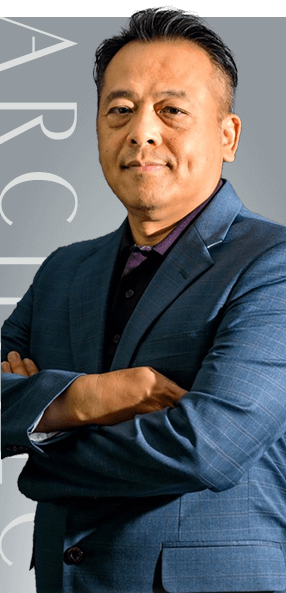
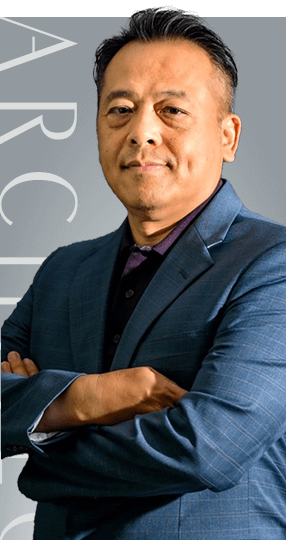
team高度調整

diff --git a/scss/index.scss b/scss/index.scss
@@ -124,7 +124,7 @@
     .theme_team{
         background: url(../img/team_bg.jpg) center top no-repeat;
         background-size: cover;
-        padding: 96px 0 0;
+        padding: 5% 0 3%;
         background-attachment: fixed;
         @media (max-width:1280px){
             padding: 8% 0 0;
@@ -190,8 +190,8 @@
     
                     .theme_team_member_image{
                         width: 100%;
-                        height: 0;
-                        padding-bottom: 207%;
+                        // height: 0;
+                        // padding-bottom: 207%;
                         overflow: hidden;
 
                         img{

diff --git a/css/index.css b/css/index.css
@@ -766,7 +766,7 @@ footer #goTop:hover {
 .theme .theme_team {
   background: url(../img/team_bg.jpg) center top no-repeat;
   background-size: cover;
-  padding: 96px 0 0;
+  padding: 5% 0 3%;
   background-attachment: fixed;
 }
 
@@ -862,8 +862,6 @@ footer #goTop:hover {
 
 .theme .theme_team .theme_team_member .theme_team_slider .theme_team_member_item .theme_team_member_image {
   width: 100%;
-  height: 0;
-  padding-bottom: 207%;
   overflow: hidden;
 }
 
